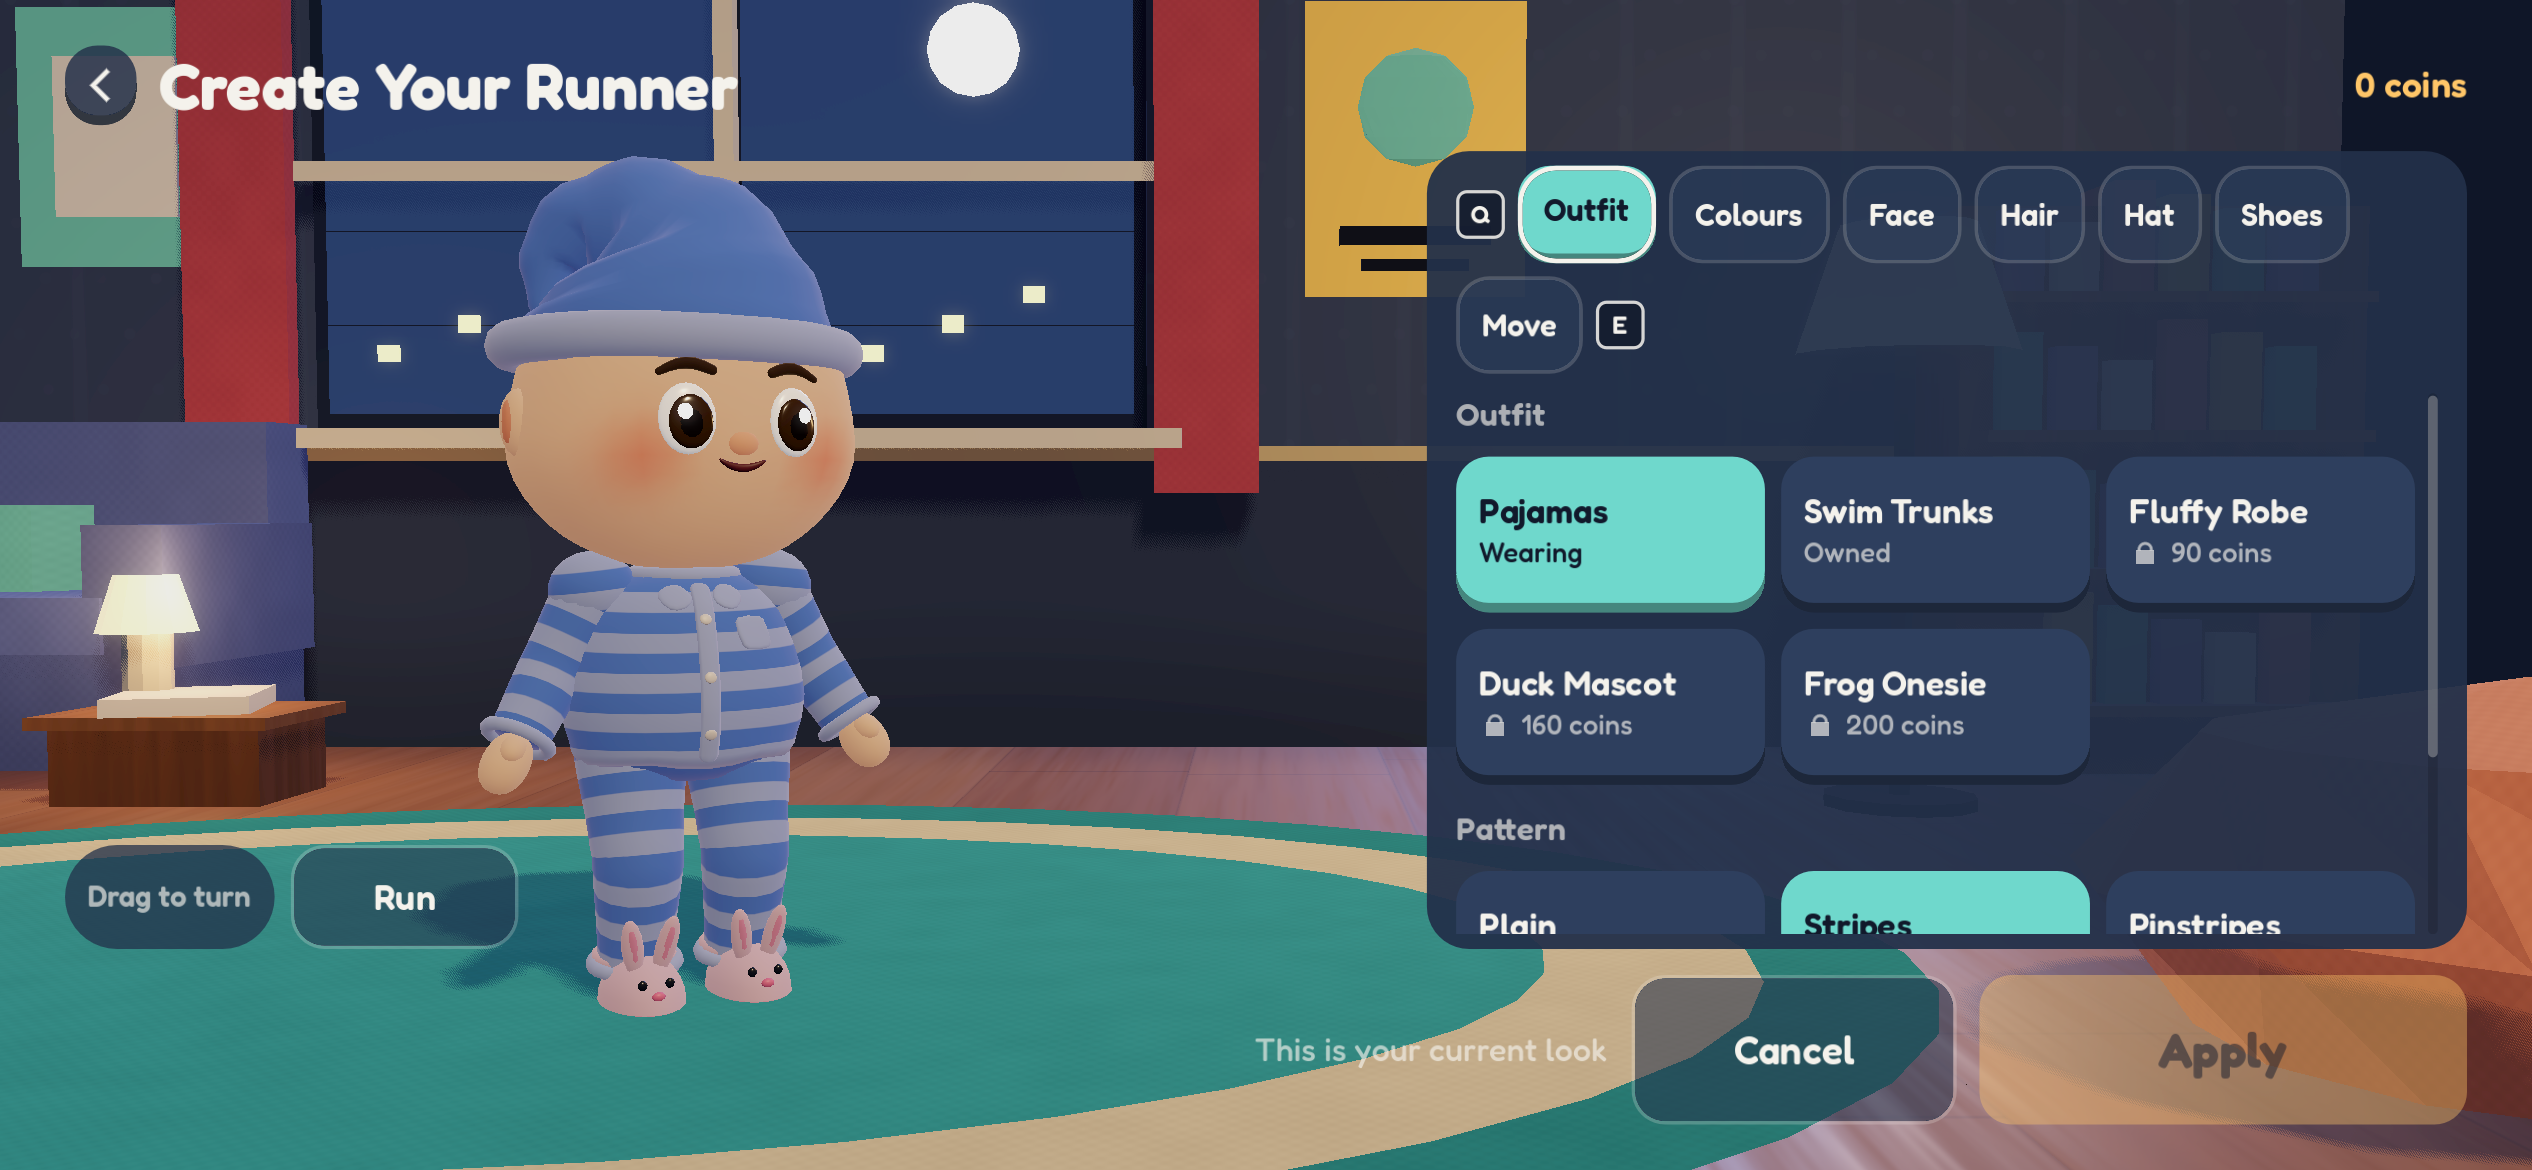
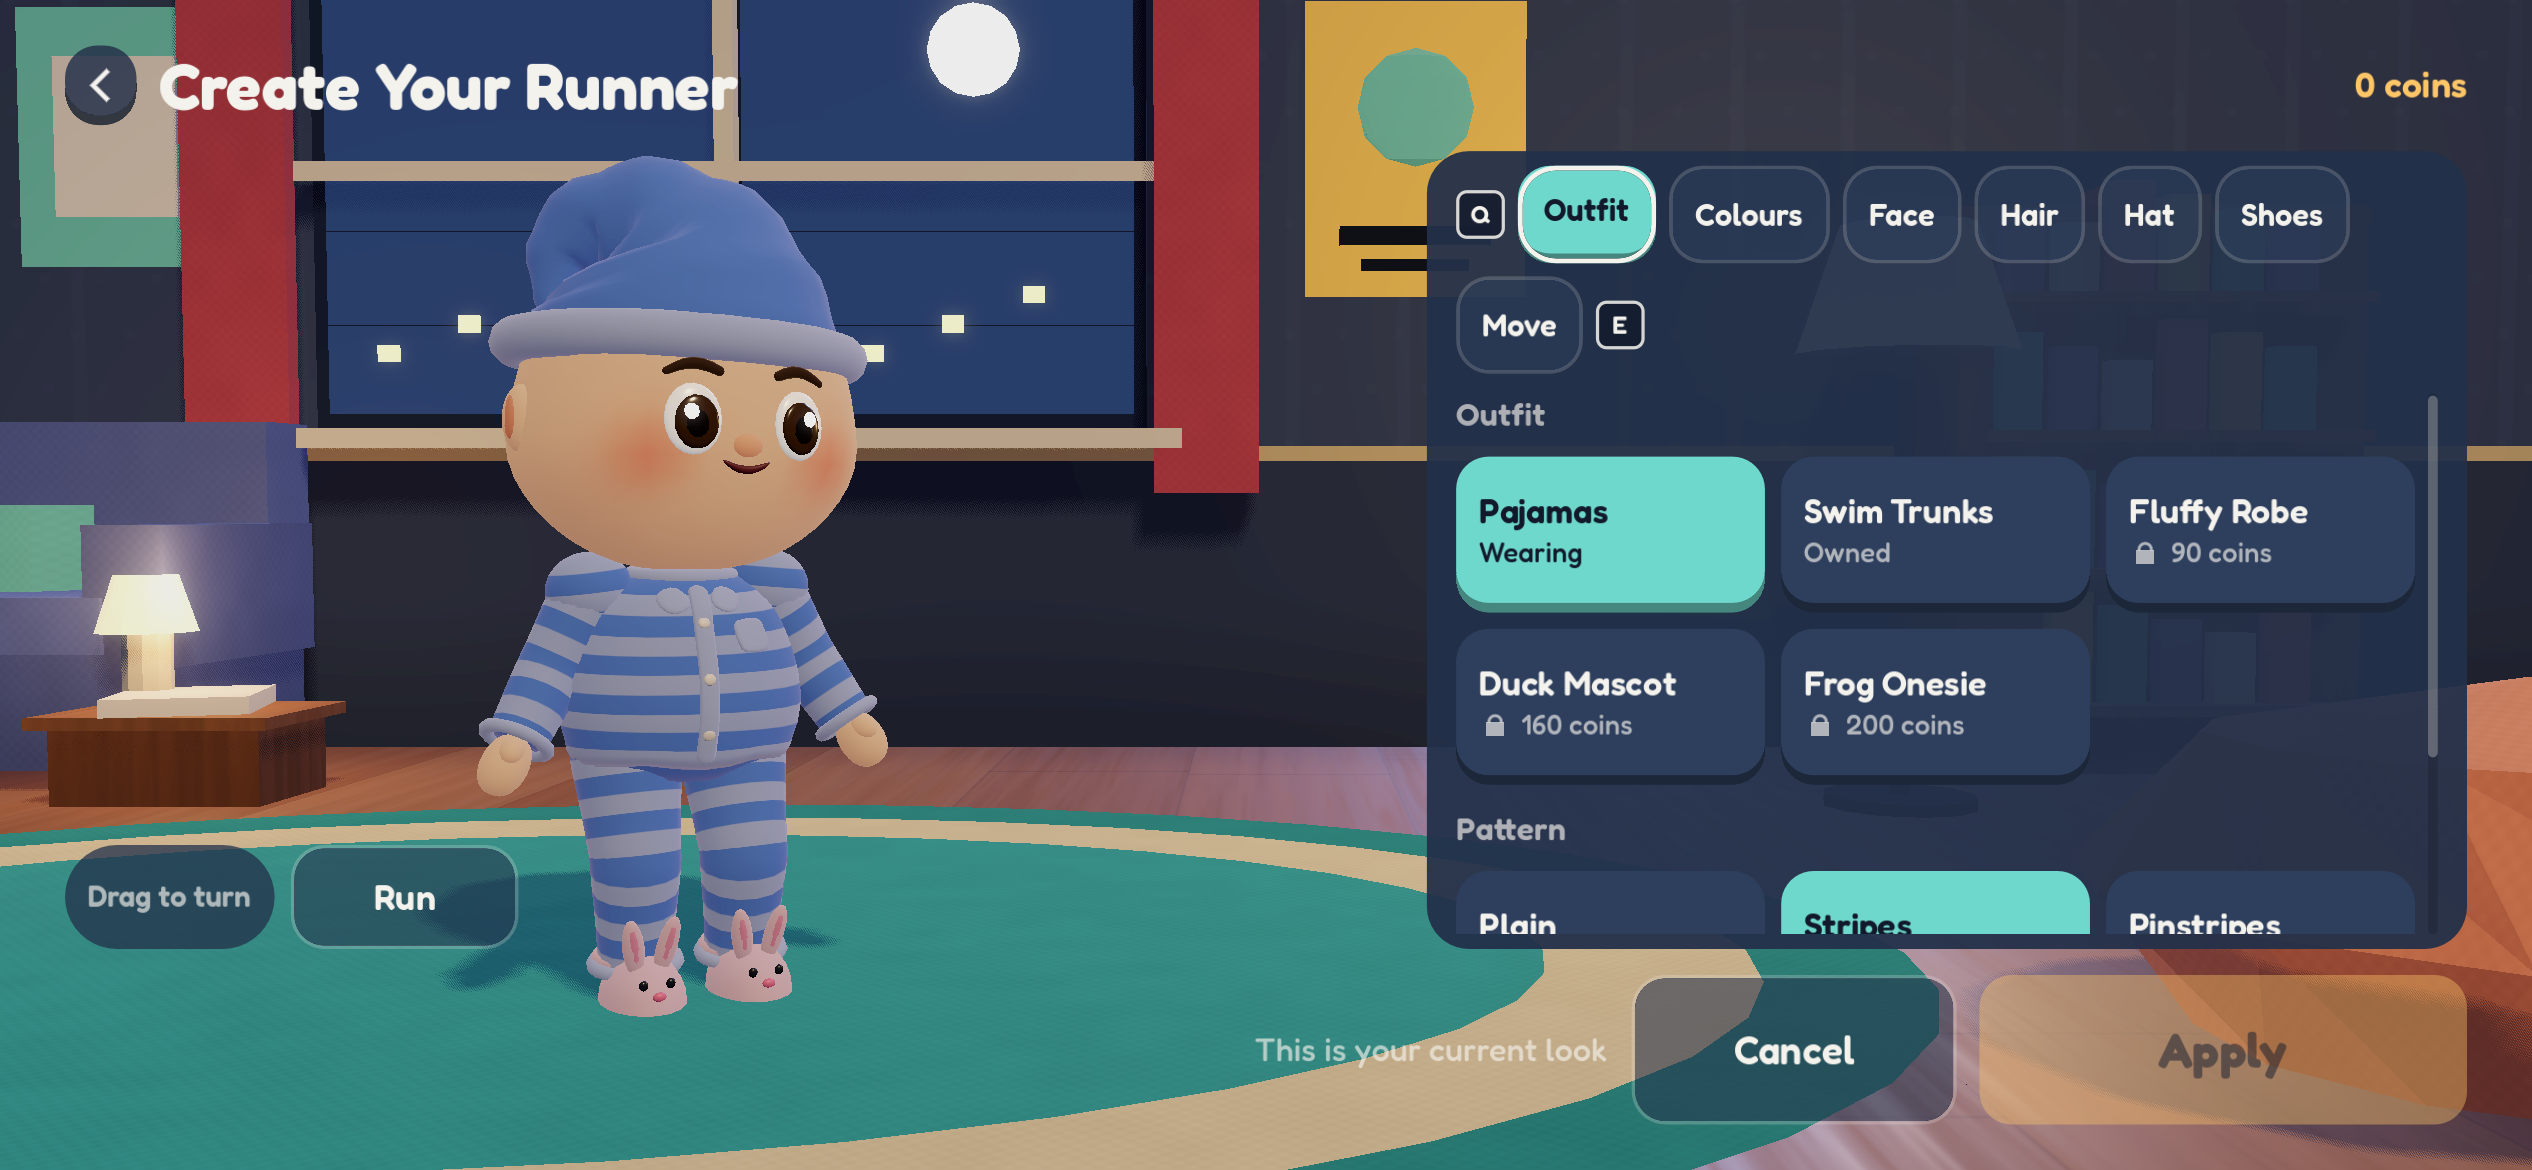
V3 notes: lobby framing, default names, test infrastructure; SE lobby and re-captured screens
Claude-Session: https://claude.ai/code/session_015bTZbMm82nabVWcoEeZX7m

diff --git a/docs/V3_NOTES.md b/docs/V3_NOTES.md
@@ -94,9 +94,20 @@ follows it.
 - **Wordmark.** An original Ultimate Trifecta wordmark on the home screen.
 - **Dorm.** A cozy late-night common room. A dorm shader adds wood grain
   and plank seams, fabric weave and sheen, wallpaper, glossy props and
-  contact AO. A reading lamp and moonlight light the room. The camera frames
-  1, 2, 4 or 8 players so every face is visible. It eases over 0.25 s, or
-  cuts with Reduced Motion. Departures and arrivals animate.
+  contact AO. A reading lamp and moonlight light the room. Departures and
+  arrivals animate.
+- **Lobby framing.** The camera frames 1, 2, 4 or 8 players. It eases over
+  0.25 s, or cuts with Reduced Motion.
+  - The camera stays in front of the group and turns toward an aim point
+    left of the party panel. When it sat off to the side, back-row faces
+    fell behind front-row heads.
+  - It rises with the depth of the group.
+  - The room is built larger than any framing, so the iPad 4:3 view never
+    sees past the walls.
+  - `test_lobby` renders at 2532×1170, 1334×750 and 2048×1536, with tall
+    hats. It checks that both eyes, the mouth and the forehead of every
+    face are clear of nearer heads and hats, and that both shoulders are
+    in frame.
 - **Play with Friends.** One primary action, Create Party. To join, you
   enter a 6-character code from an alphabet without look-alikes; parsing is
   strict, and only case, spaces and dashes are forgiven. A busy card has a
@@ -163,6 +174,11 @@ The service lives in `service/`; see [service/README.md](../service/README.md).
 - **Fix: double sign-in.** A successful sign-in used to end in the error
   state, because the state was derived from itself, so every API call
   signed in twice. Fixed and tested.
+- **Default names.** Generated default names now always fit the
+  3–16-character rule. V2 could generate 17-character names such as
+  "Splashy Walrus 56", which the new rules would show as "Player". Saved
+  names that don't fit are migrated: the number is dropped, or else a new
+  name is generated.
 - **Links.** Support and privacy links appear only when the owner sets real
   ones in the service config. There are no placeholders. A minimum client
   build can gate online play.
@@ -221,6 +237,18 @@ The service lives in `service/`; see [service/README.md](../service/README.md).
   - A controller code pad replaces the text field, which leaves controller
     focus so it can never trap you.
   - In the creator, LB/RB (or Q/E) switch categories.
+
+## Testing infrastructure
+
+- `tools/run_tests.sh` now fails a test when any script error is raised
+  during it, using a `Logger` registered with `OS.add_logger`. Before, such
+  errors were printed and ignored.
+- `test_focus` resizes the window to phone size: the headless default is a
+  1280×1280 square, where nothing scrolls.
+- `tools/capture_lobby.sh`, `tools/record_lobby.sh` and
+  `tools/label_movie.sh` produce the lobby evidence and the labelled clips.
+- `--capture=account|creator|results`, `--sim-pad=…`, `--gc-sim=ready` and
+  `--ready-after=S` are labelled development flags for captures.
 
 ## Camera and performance
 
